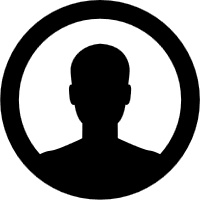
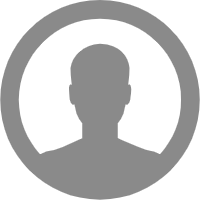
更换图标，增加popview

diff --git a/miniprogram/libs/amap-wx.js b/miniprogram/libs/amap-wx.js
@@ -1,0 +1,1 @@
+function AMapWX(a){this.key=a.key,this.requestConfig={key:a.key,s:"rsx",platform:"WXJS",appname:a.key,sdkversion:"1.2.0",logversion:"2.0"}}AMapWX.prototype.getWxLocation=function(a,b){wx.getLocation({type:"gcj02",success:function(a){var c=a.longitude+","+a.latitude;wx.setStorage({key:"userLocation",data:c}),b(c)},fail:function(c){wx.getStorage({key:"userLocation",success:function(a){a.data&&b(a.data)}}),a.fail({errCode:"0",errMsg:c.errMsg||""})}})},AMapWX.prototype.getRegeo=function(a){function c(c){var d=b.requestConfig;wx.request({url:"https://restapi.amap.com/v3/geocode/regeo",data:{key:b.key,location:c,extensions:"all",s:d.s,platform:d.platform,appname:b.key,sdkversion:d.sdkversion,logversion:d.logversion},method:"GET",header:{"content-type":"application/json"},success:function(b){var d,e,f,g,h,i,j,k,l;b.data.status&&"1"==b.data.status?(d=b.data.regeocode,e=d.addressComponent,f=[],g="",d&&d.roads[0]&&d.roads[0].name&&(g=d.roads[0].name+"附近"),h=c.split(",")[0],i=c.split(",")[1],d.pois&&d.pois[0]&&(g=d.pois[0].name+"附近",j=d.pois[0].location,j&&(h=parseFloat(j.split(",")[0]),i=parseFloat(j.split(",")[1]))),e.provice&&f.push(e.provice),e.city&&f.push(e.city),e.district&&f.push(e.district),e.streetNumber&&e.streetNumber.street&&e.streetNumber.number?(f.push(e.streetNumber.street),f.push(e.streetNumber.number)):(k="",d&&d.roads[0]&&d.roads[0].name&&(k=d.roads[0].name),f.push(k)),f=f.join(""),l=[{iconPath:a.iconPath,width:a.iconWidth,height:a.iconHeight,name:f,desc:g,longitude:h,latitude:i,id:0,regeocodeData:d}],a.success(l)):a.fail({errCode:b.data.infocode,errMsg:b.data.info})},fail:function(b){a.fail({errCode:"0",errMsg:b.errMsg||""})}})}var b=this;a.location?c(a.location):b.getWxLocation(a,function(a){c(a)})},AMapWX.prototype.getWeather=function(a){function d(d){var e="base";a.type&&"forecast"==a.type&&(e="all"),wx.request({url:"https://restapi.amap.com/v3/weather/weatherInfo",data:{key:b.key,city:d,extensions:e,s:c.s,platform:c.platform,appname:b.key,sdkversion:c.sdkversion,logversion:c.logversion},method:"GET",header:{"content-type":"application/json"},success:function(b){function c(a){var b={city:{text:"城市",data:a.city},weather:{text:"天气",data:a.weather},temperature:{text:"温度",data:a.temperature},winddirection:{text:"风向",data:a.winddirection+"风"},windpower:{text:"风力",data:a.windpower+"级"},humidity:{text:"湿度",data:a.humidity+"%"}};return b}var d,e;b.data.status&&"1"==b.data.status?b.data.lives?(d=b.data.lives,d&&d.length>0&&(d=d[0],e=c(d),e["liveData"]=d,a.success(e))):b.data.forecasts&&b.data.forecasts[0]&&a.success({forecast:b.data.forecasts[0]}):a.fail({errCode:b.data.infocode,errMsg:b.data.info})},fail:function(b){a.fail({errCode:"0",errMsg:b.errMsg||""})}})}function e(e){wx.request({url:"https://restapi.amap.com/v3/geocode/regeo",data:{key:b.key,location:e,extensions:"all",s:c.s,platform:c.platform,appname:b.key,sdkversion:c.sdkversion,logversion:c.logversion},method:"GET",header:{"content-type":"application/json"},success:function(b){var c,e;b.data.status&&"1"==b.data.status?(e=b.data.regeocode,e.addressComponent?c=e.addressComponent.adcode:e.aois&&e.aois.length>0&&(c=e.aois[0].adcode),d(c)):a.fail({errCode:b.data.infocode,errMsg:b.data.info})},fail:function(b){a.fail({errCode:"0",errMsg:b.errMsg||""})}})}var b=this,c=b.requestConfig;a.city?d(a.city):b.getWxLocation(a,function(a){e(a)})},AMapWX.prototype.getPoiAround=function(a){function d(d){var e={key:b.key,location:d,s:c.s,platform:c.platform,appname:b.key,sdkversion:c.sdkversion,logversion:c.logversion};a.querytypes&&(e["types"]=a.querytypes),a.querykeywords&&(e["keywords"]=a.querykeywords),wx.request({url:"https://restapi.amap.com/v3/place/around",data:e,method:"GET",header:{"content-type":"application/json"},success:function(b){var c,d,e,f;if(b.data.status&&"1"==b.data.status){if(b=b.data,b&&b.pois){for(c=[],d=0;d<b.pois.length;d++)e=0==d?a.iconPathSelected:a.iconPath,c.push({latitude:parseFloat(b.pois[d].location.split(",")[1]),longitude:parseFloat(b.pois[d].location.split(",")[0]),iconPath:e,width:22,height:32,id:d,name:b.pois[d].name,address:b.pois[d].address});f={markers:c,poisData:b.pois},a.success(f)}}else a.fail({errCode:b.data.infocode,errMsg:b.data.info})},fail:function(b){a.fail({errCode:"0",errMsg:b.errMsg||""})}})}var b=this,c=b.requestConfig;a.location?d(a.location):b.getWxLocation(a,function(a){d(a)})},AMapWX.prototype.getStaticmap=function(a){function f(b){c.push("location="+b),a.zoom&&c.push("zoom="+a.zoom),a.size&&c.push("size="+a.size),a.scale&&c.push("scale="+a.scale),a.markers&&c.push("markers="+a.markers),a.labels&&c.push("labels="+a.labels),a.paths&&c.push("paths="+a.paths),a.traffic&&c.push("traffic="+a.traffic);var e=d+c.join("&");a.success({url:e})}var e,b=this,c=[],d="https://restapi.amap.com/v3/staticmap?";c.push("key="+b.key),e=b.requestConfig,c.push("s="+e.s),c.push("platform="+e.platform),c.push("appname="+e.appname),c.push("sdkversion="+e.sdkversion),c.push("logversion="+e.logversion),a.location?f(a.location):b.getWxLocation(a,function(a){f(a)})},AMapWX.prototype.getInputtips=function(a){var b=this,c=b.requestConfig,d={key:b.key,s:c.s,platform:c.platform,appname:b.key,sdkversion:c.sdkversion,logversion:c.logversion};a.location&&(d["location"]=a.location),a.keywords&&(d["keywords"]=a.keywords),a.type&&(d["type"]=a.type),a.city&&(d["city"]=a.city),a.citylimit&&(d["citylimit"]=a.citylimit),wx.request({url:"https://restapi.amap.com/v3/assistant/inputtips",data:d,method:"GET",header:{"content-type":"application/json"},success:function(b){b&&b.data&&b.data.tips&&a.success({tips:b.data.tips})},fail:function(b){a.fail({errCode:"0",errMsg:b.errMsg||""})}})},AMapWX.prototype.getDrivingRoute=function(a){var b=this,c=b.requestConfig,d={key:b.key,s:c.s,platform:c.platform,appname:b.key,sdkversion:c.sdkversion,logversion:c.logversion};a.origin&&(d["origin"]=a.origin),a.destination&&(d["destination"]=a.destination),a.strategy&&(d["strategy"]=a.strategy),a.waypoints&&(d["waypoints"]=a.waypoints),a.avoidpolygons&&(d["avoidpolygons"]=a.avoidpolygons),a.avoidroad&&(d["avoidroad"]=a.avoidroad),wx.request({url:"https://restapi.amap.com/v3/direction/driving",data:d,method:"GET",header:{"content-type":"application/json"},success:function(b){b&&b.data&&b.data.route&&a.success({paths:b.data.route.paths,taxi_cost:b.data.route.taxi_cost||""})},fail:function(b){a.fail({errCode:"0",errMsg:b.errMsg||""})}})},AMapWX.prototype.getWalkingRoute=function(a){var b=this,c=b.requestConfig,d={key:b.key,s:c.s,platform:c.platform,appname:b.key,sdkversion:c.sdkversion,logversion:c.logversion};a.origin&&(d["origin"]=a.origin),a.destination&&(d["destination"]=a.destination),wx.request({url:"https://restapi.amap.com/v3/direction/walking",data:d,method:"GET",header:{"content-type":"application/json"},success:function(b){b&&b.data&&b.data.route&&a.success({paths:b.data.route.paths})},fail:function(b){a.fail({errCode:"0",errMsg:b.errMsg||""})}})},AMapWX.prototype.getTransitRoute=function(a){var b=this,c=b.requestConfig,d={key:b.key,s:c.s,platform:c.platform,appname:b.key,sdkversion:c.sdkversion,logversion:c.logversion};a.origin&&(d["origin"]=a.origin),a.destination&&(d["destination"]=a.destination),a.strategy&&(d["strategy"]=a.strategy),a.city&&(d["city"]=a.city),a.cityd&&(d["cityd"]=a.cityd),wx.request({url:"https://restapi.amap.com/v3/direction/transit/integrated",data:d,method:"GET",header:{"content-type":"application/json"},success:function(b){if(b&&b.data&&b.data.route){var c=b.data.route;a.success({distance:c.distance||"",taxi_cost:c.taxi_cost||"",transits:c.transits})}},fail:function(b){a.fail({errCode:"0",errMsg:b.errMsg||""})}})},AMapWX.prototype.getRidingRoute=function(a){var b=this,c=b.requestConfig,d={key:b.key,s:c.s,platform:c.platform,appname:b.key,sdkversion:c.sdkversion,logversion:c.logversion};a.origin&&(d["origin"]=a.origin),a.destination&&(d["destination"]=a.destination),wx.request({url:"https://restapi.amap.com/v4/direction/bicycling",data:d,method:"GET",header:{"content-type":"application/json"},success:function(b){b&&b.data&&b.data.data&&a.success({paths:b.data.data.paths})},fail:function(b){a.fail({errCode:"0",errMsg:b.errMsg||""})}})},module.exports.AMapWX=AMapWX;

diff --git a/miniprogram/pages/map/map.js b/miniprogram/pages/map/map.js
@@ -3,25 +3,27 @@ Page({
   data: {
     points: [],
     markers: [],
-    polyline: []
+    polyline: [],
+    show: false
   },
-  // regionchange(e) {
-  //   console.log(e.type)
-  // },
-  // markertap(e) {
-  //   console.log(e.markerId)
-  // },
-  // controltap(e) {
-  //   console.log(e.controlId)
-  // },
+  showPopup() {
+    this.setData({ show: true });
+  },
+
+  onClose() {
+    this.setData({ show: false });
+  },
+  markertap(e){
+    this.showPopup()
+  },
   /**
    * 生命周期函数--监听页面加载
    */
-  onLoad: function () {
+  onLoad: function() {
     //保存系统信息
     var _this = this;
     wx.getSystemInfo({
-      success: function (res) {
+      success: function(res) {
         _this.setData({
           view: {
             Height: res.windowHeight
@@ -29,68 +31,32 @@ Page({
         })
       },
     });
-
-    var total = 0;
-    db.collection('bound').count({
-      success: function (res) {
-        total = res.total;
-        const batchTimes = Math.ceil(total / 20);
-        for (let i = 0; i < batchTimes; i++) {
-          db.collection('bound').orderBy('id', 'asc').skip(i * 20).get().then(res => {
-            for (let j = 0; j < res.data.length; j++) {
-              console.log(res.data[j].smx)
-              _this.setData({
-                points: _this.data.points.concat({
-                  longitude: parseFloat(res.data[j].smx),
-                  latitude: parseFloat(res.data[j].smy)
-                })
-              })
-              if (i == batchTimes - 1) {
-                _this.setData({
-                  polyline: [{
-                    points: _this.data.points,
-                    color: "#FF0000DD",
-                    width: 1,
-                    dottedLine: false
-                  }]
-                })
-              }
-            }
-          }
-          ).catch(err => {
-
-          });
-        }
-      }
-    })
-
-
-
-
     //请求测站信息
-    // wx.showLoading({
-    //   title: '正在加载数据',
-    // })
-    // wx.cloud.callFunction({
-    //   name: 'movielist',
-    // }).then(res => {
-    //   wx.hideLoading();
-    //   let a = JSON.parse(res.result).result
-    //   for (let i = 0; i < a.length; i++) {
-    //     _this.setData({
-    //       markers: _this.data.markers.concat({
-    //         iconPath: "/images/red.png",
-    //         id: i,
-    //         latitude: parseFloat(a[i].lttd),
-    //         longitude: parseFloat(a[i].lgtd),
-    //         width: 12,
-    //         height: 12
-    //       })
-    //     })
-    //   }
-    // }).catch(err => {
-    //   console.error(err);
-    // });
+    wx.showLoading({
+      title: '正在加载数据',
+    })
+    wx.cloud.callFunction({
+      name: 'movielist',
+    }).then(res => {
+      let a = JSON.parse(res.result).result
+      //a.length
+      for (let i = 0; i < 10; i++) {
+        _this.setData({
+          markers: _this.data.markers.concat({
+            iconPath: "/images/red.png",
+            id: i,
+            latitude: parseFloat(a[i].lttd),
+            longitude: parseFloat(a[i].lgtd),
+            width: 12,
+            height: 12
+          })
+        })
+      }
+      wx.hideLoading();
+    }).catch(err => {
+      console.error(err);
+    });
+
 
   }
 })

diff --git a/cloudfunctions/movielist/index.js b/cloudfunctions/movielist/index.js
@@ -5,7 +5,7 @@ cloud.init()
 var rp = require('request-promise');
 // 云函数入口函数
 exports.main = async (event, context) => {
-  return rp('http://106.13.62.242/geo.html')
+  return rp('http://106.13.62.242/station.html')
     .then(function (htmlString) {
       return htmlString;
     })
